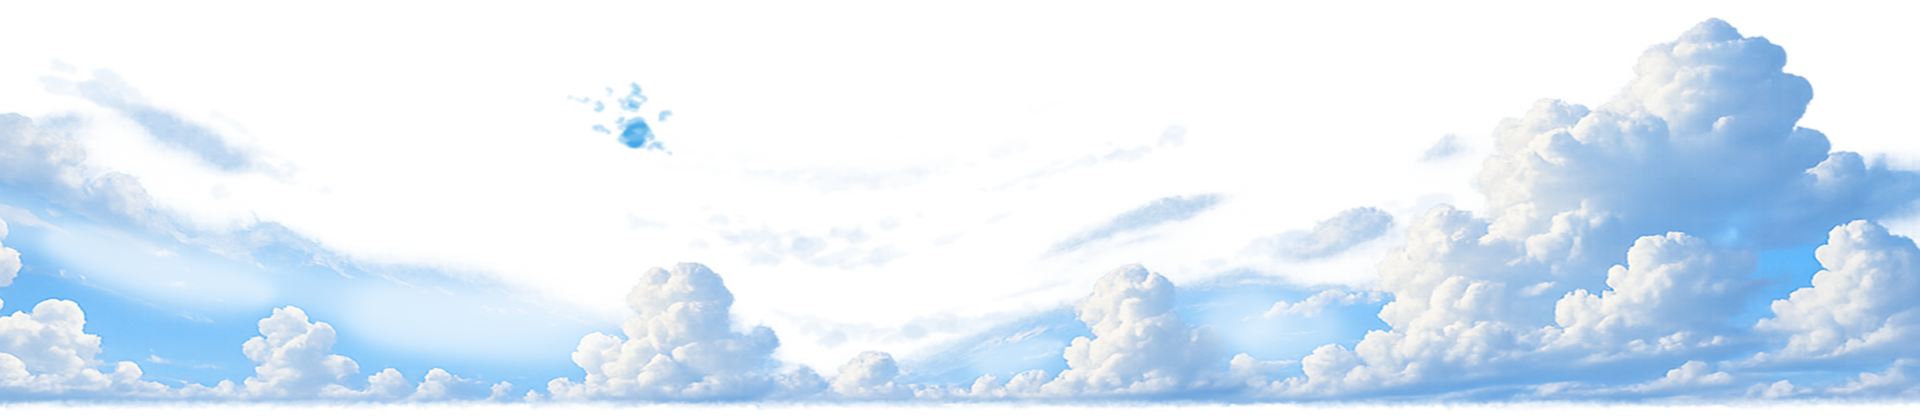
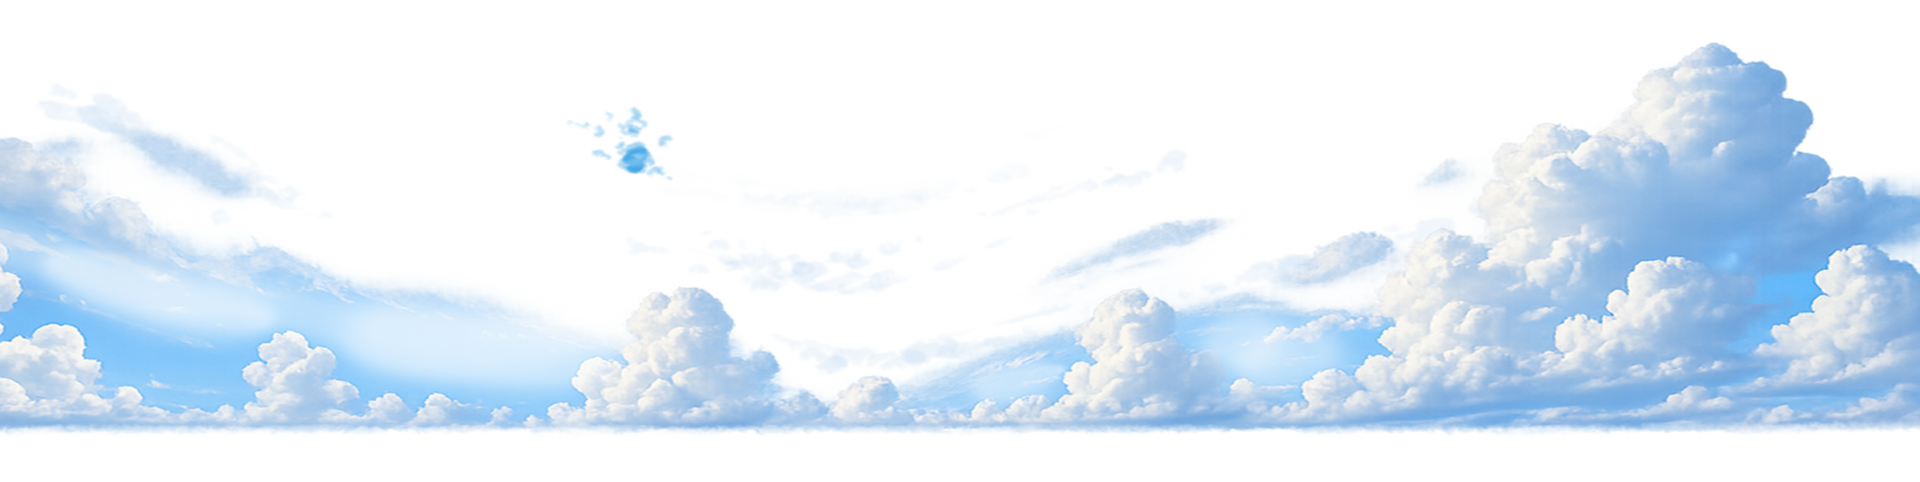
minor changes

diff --git a/island-scene.js b/island-scene.js
@@ -28,8 +28,8 @@
 
   async function loadConfigs() {
     const [sceneRes, uiRes] = await Promise.all([
-      fetch('assets/scene/layout.json?v=20260716d'),
-      fetch('assets/ui/layout.json?v=20260716d'),
+      fetch('assets/scene/layout.json?v=20260716g'),
+      fetch('assets/ui/layout.json?v=20260716g'),
     ]);
     if (!sceneRes.ok) throw new Error('Failed to load assets/scene/layout.json');
     const scene = await sceneRes.json();
@@ -1007,7 +1007,7 @@
 
     // Soft waterline shadow grounds the ship without darkening its artwork.
     if (shipMesh) {
-      const shadowLoc = pxToLocal(178, 500, 220, 48);
+      const shadowLoc = pxToLocal(178, 528, 220, 48);
       const shadowMat = new THREE.MeshBasicMaterial({
         map: makeShadowTex(),
         transparent: true,

diff --git a/index.html b/index.html
@@ -1037,6 +1037,6 @@ document.addEventListener('keydown', e => { if(e.key === 'Escape') closePanel();
 </script>
 
 <script src="https://cdn.jsdelivr.net/npm/three@0.160.0/build/three.min.js"></script>
-<script src="island-scene.js?v=20260716e"></script>
+<script src="island-scene.js?v=20260716f"></script>
 </body>
 </html>